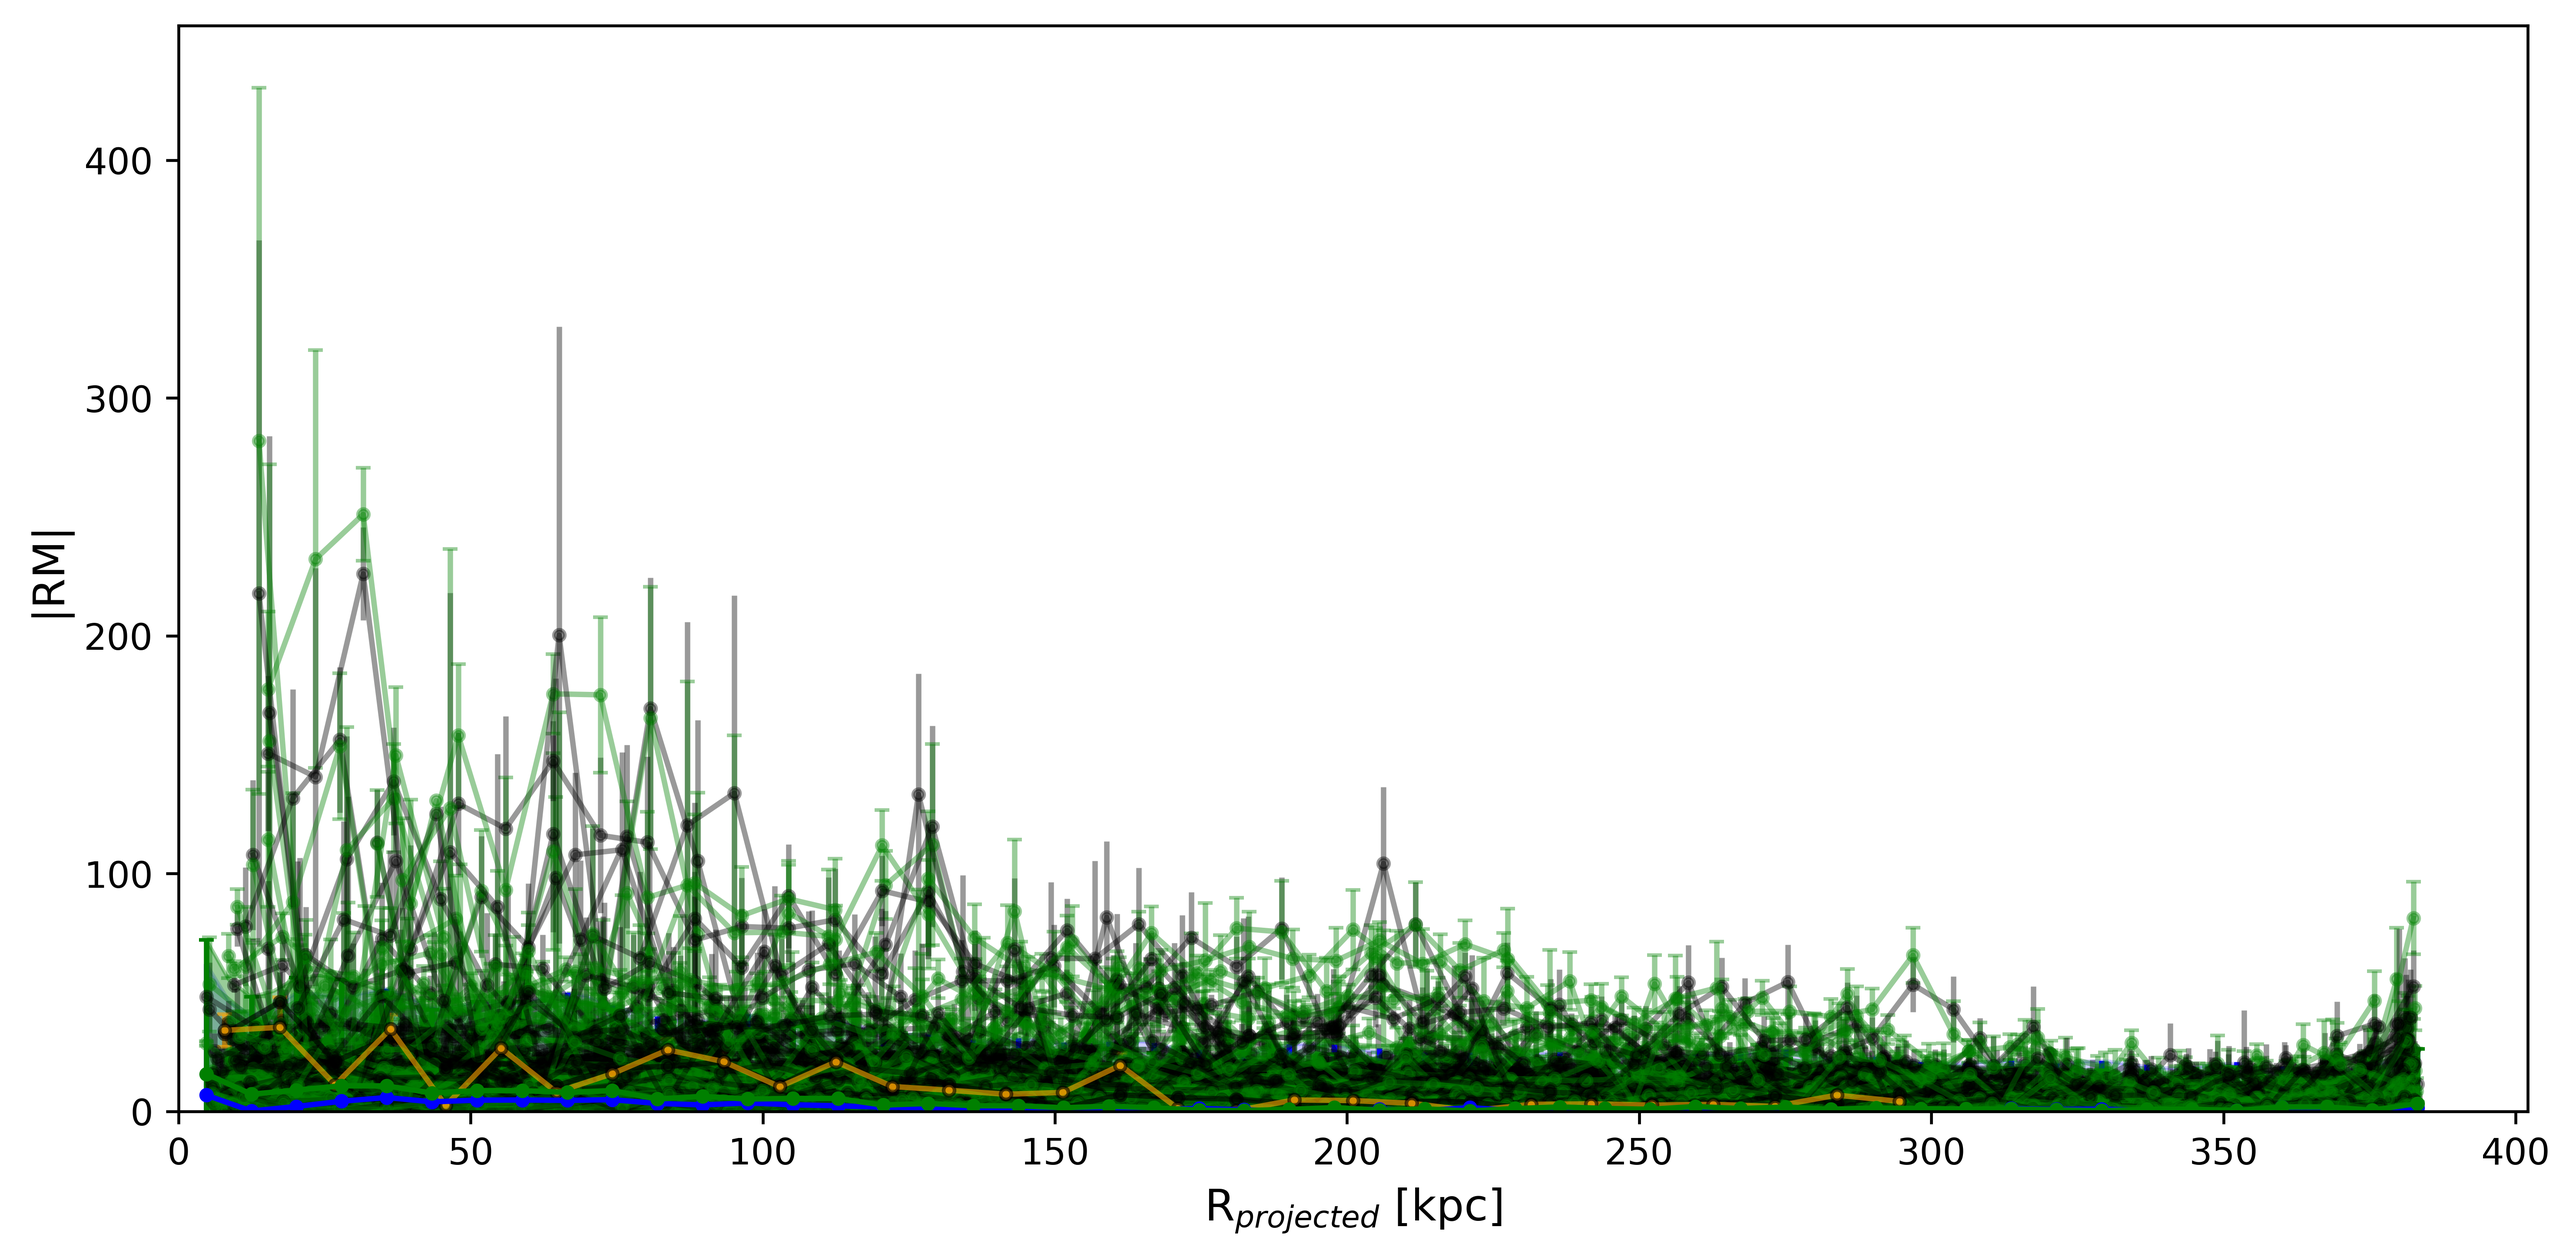
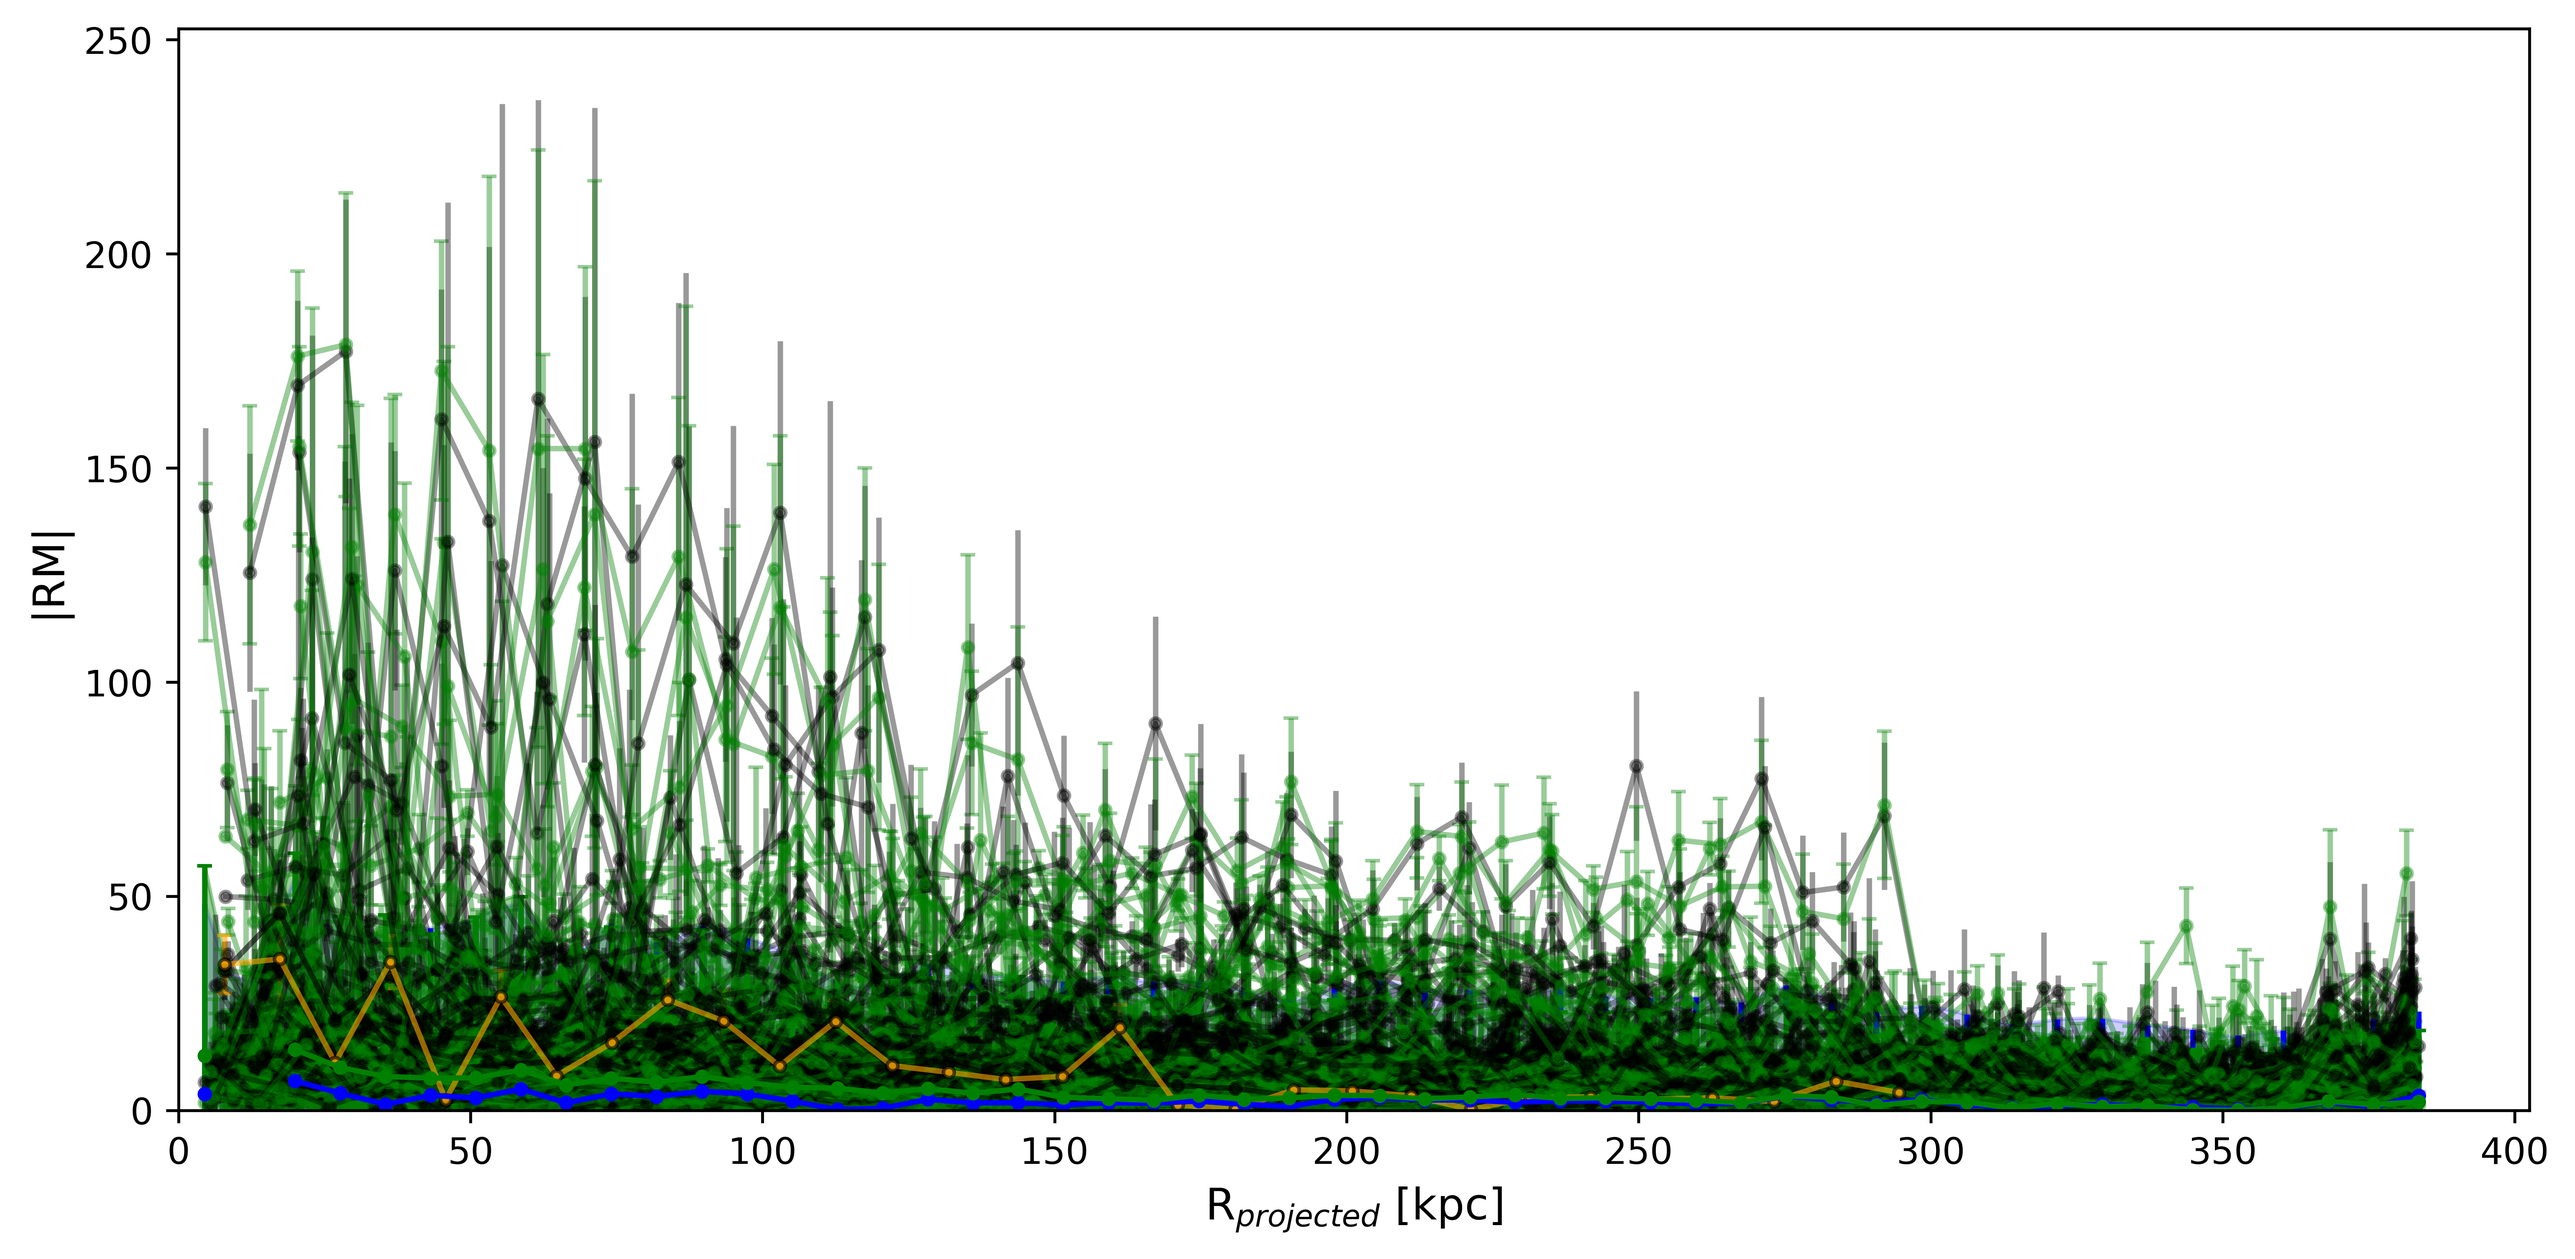
testing small patch to undo .to_value() error

diff --git a/M31_signal_vs_entire_sky.py b/M31_signal_vs_entire_sky.py
@@ -503,8 +503,8 @@ def indiv_bg_corr(arr, bin_cent, absol=True):
     #bin_cent - Center of bin of projected distance or just projected distance relative to the RM values given in 'arr'
     bin_cent = np.asarray(bin_cent)  # Ensure bin_cent is an array
     if hasattr(bin_cent, "unit"):  # If it's an astropy Quantity, make it unitless
-        bin_cent = bin_cent.to_value()
-
+        bin_cent = bin_cent.value
+    
     arr = np.asarray(arr)  # Ensure arr is also an array (important for indexing later)
     
     arr_bg = np.where(bin_cent > 300, arr, 0)  # Fill all values within virial radius with 0
@@ -522,7 +522,7 @@ def indiv_bg_corr(arr, bin_cent, absol=True):
 patch_size = 30 #in degrees (same as M31 Virial Radius)
 
 """IMPORTANT"""
-number_of_patches = int(8.6e1) #Creating laaaarge nubmer of patches (choose smaller vlue if you only want to see output features)
+number_of_patches = int(1e4) #Creating laaaarge nubmer of patches (choose smaller vlue if you only want to see output features)
 
 
 BINS = 50
